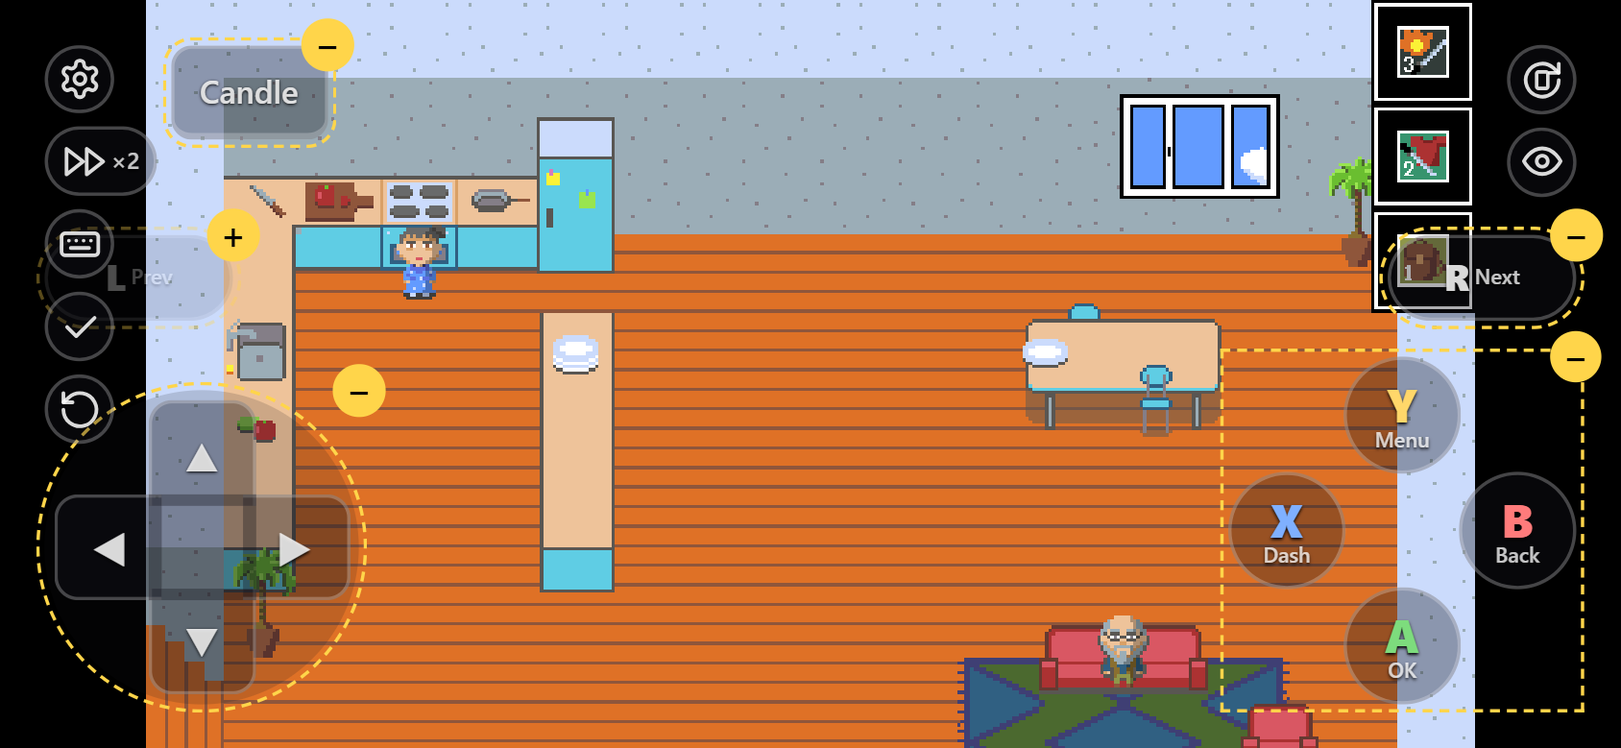
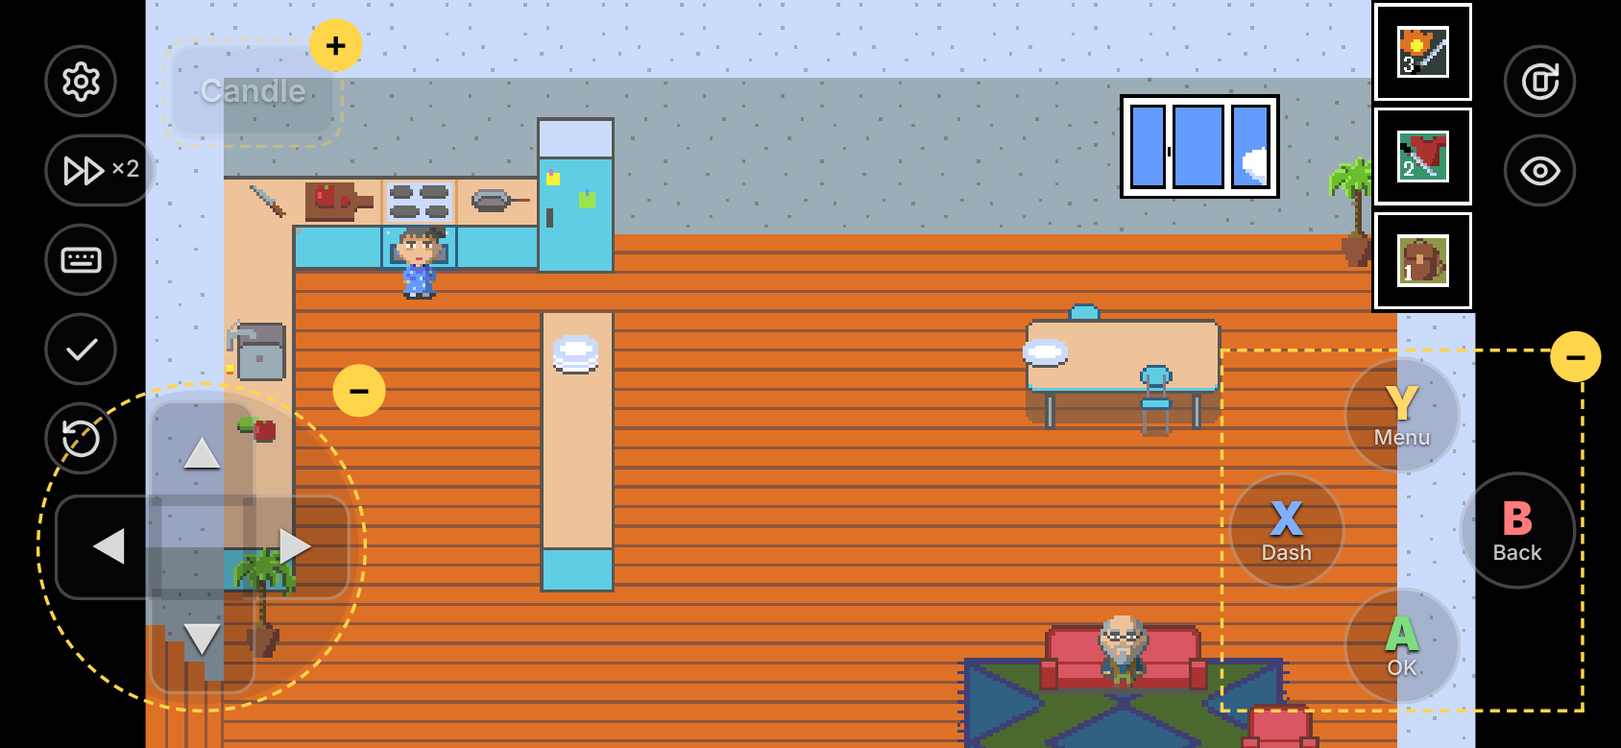
docs(site): organise the player guide like the in-game menu (#105)

diff --git a/site/reference/how-it-works.md b/site/reference/how-it-works.md
@@ -73,7 +73,7 @@ The game folder is never written to. Each run:
 1. Picks the files: the standard RPG Maker folders, plus `include`, minus `exclude`.
 2. **Hard-links** them into `<game drive>:\.rwk-build\` (no extra disk space; copies on another drive).
 3. Adds the plugins to the build's copy of `js/plugins.js` and marks `index.html` with `<meta name="generator" content="rpgmaker-web-toolkit">`. Unless a public site asked to be listed: a `noindex` meta tag, `X-Robots-Tag: noindex` and a `robots.txt`.
-   Also writes `rwk-sw.js`, a Service Worker that keeps the pictures, sounds, data and scripts (each under 25 MiB) in the browser's Cache Storage, so a phone does not download them at every launch. It never touches `/api/`. A new deploy lists each file's version (size and modified time); on the next launch after all tabs of the game close, the worker drops only the files that changed. Players see what it holds, and can empty it, in ⚙ → **Game files on this device**. Turn it off with [`cache`](/reference/config).
+   Also writes `rwk-sw.js`, a Service Worker that keeps the pictures, sounds, data and scripts (each under 25 MiB) in the browser's Cache Storage, so a phone does not download them at every launch. It never touches `/api/`. A new deploy lists each file's version (size and modified time); on the next launch after all tabs of the game close, the worker drops only the files that changed. Players see what it holds, and can empty it, in ⚙ → **Help** → **Game files on this device**. Turn it off with [`cache`](/reference/config).
 
    The worker also lists the files over 25 MiB (a second list, `LARGE`, from R2). It never stores those on its own: only ⚙ → [Play offline](/play/offline) does. `RWK_Offline` asks the worker for the list over a message channel, compares it with the keys in the cache, and downloads what is missing, three files at a time, with a request header that makes the worker leave them alone. It counts bytes through a `TransformStream`, so a big file moves the bar while it downloads, and stores each file only after a plain 200 from this site (never a login page Access redirected to). `index.html`, `js/plugins.js` and `rwk.webmanifest` are answered from the network first and the cache when there is none (or after 4 seconds), so an installed copy opens offline. A cached file answers a `Range` request with a 206 (movies, streamed audio). `rwk.webmanifest` carries the icon's real size, `scope` and `display: fullscreen`, which is what lets a browser offer to install the game.
 4. Uploads files over 25 MiB to R2, skipping unchanged ones by hash. The limits come from [`cli/limits.json`](/reference/limits#when-cloudflare-changes-them), downloaded from `main` on each run.
@@ -118,7 +118,7 @@ Saves are stored under a hash of the email, never the email itself.
 
 ## Save sync
 
-At boot, before the engine reads a save, the plugin keeps the newer of each local / cloud pair and asks when both changed. Each save uploads about a second later with `If-Match`, so it never silently overwrites another device. What players see: [Saves on several devices](/play/saves).
+At boot, before the engine reads a save, the plugin keeps the newer of each local / cloud pair and asks when both changed. Each save uploads about a second later with `If-Match`, so it never silently overwrites another device. What players see: [Cloud saves](/play/saves).
 
 Before the Worker overwrites or deletes a save, it copies the old one to `history/`: at most once per 15 minutes per save, unless another device or a delete replaces it. It then drops copies past `saveHistory` (`keep` per save, `days` old). Restoring copies one back over the save, after keeping the save it replaces.
 

diff --git a/site/play/index.md b/site/play/index.md
@@ -14,7 +14,7 @@ Someone sent you a link like `https://my-game.name.workers.dev`.
 No code? Your email is not on the list yet (or the code went to spam). Ask for it to be [added](/setup/access#invite-players).
 
 ::: tip Your email is your save
-Sign in with the same email everywhere to keep playing the same game. See [Saves on several devices](/play/saves).
+Sign in with the same email everywhere to keep playing the same game. See [Cloud saves](/play/saves).
 :::
 
 ## Play full screen on a phone
@@ -26,7 +26,7 @@ Sign in with the same email everywhere to keep playing the same game. See [Saves
 
 Or tap ⟳ in the game's toolbar (⚙ → **Full screen** on a PC). It also turns a landscape game sideways.
 
-## Controls and tools
+## Controls and the menu
 
 <div class="shots">
 
@@ -38,23 +38,16 @@ Or tap ⟳ in the game's toolbar (⚙ → **Full screen** on a PC). It also turn
 
 | On | Use |
 |---|---|
-| Phone or tablet | The on-screen gamepad: [Touch controls](/play/controls) |
+| Phone or tablet | The on-screen gamepad ([Touch controls](/play/controls)) and the [toolbar](/play/toolbar) |
 | PC | Keyboard or a controller, as in the desktop game |
-| ⏩ | [Fast forward](/play/speed) ×2 / ×3 / ×4 |
-| ⚙ Menu | Full screen (on a PC; a toolbar button on a phone), [quick save / load](/play/quick-save), [older saves](/play/saves#bring-back-an-older-save), [message modes](/play/messages) (Auto, Skip), [messages log](/play/messages#messages-log), [always dash](/play/dash), [keys and buttons](/play/keys), [move buttons](/play/controls#move-or-hide-buttons), [manage save files](/play/save-files), [use several items at once](/play/items) (also [in battle](/play/items#in-battle) and [as gifts](/play/items#gifts-and-other-events-that-ask-for-an-item)), [cheats](/play/cheats) when turned on, [play offline](/play/offline), [report a problem](#report-a-problem), [game files on this device](#game-files-on-this-device) |
+| ⚙ Settings | Every option of the toolkit, in groups: speed, messages, items, saves, controls, language, offline, help. Where each one lives: [Menu map](/play/menu) |
 
 The game pauses while the ⚙ menu is open, but the music keeps playing; ✕, Esc or a tap outside it resumes. On a PC, ⚙ is a faint button in the top-left corner, or press **F1**. Options the person who set up the game turned off are missing.
 
 ## Game files on this device
 
-The browser keeps the game's pictures, sounds and data, so the next launch does not download them again (useful over 4G). ⚙ → **Game files on this device** shows how many are kept, how much space they take and how much is left. **Clear** frees that space: the files download again as you play. Saves are not touched.
-
-To have **all** of them on the device, use ⚙ → [Play offline](/play/offline).
-
-A phone may also drop them on its own when it is short of space, or (iPhone) after some weeks without opening the game. Nothing is lost: they download again.
+Moved to [Help](/play/help#game-files-on-this-device).
 
 ## Report a problem
 
-⚙ → **Report a problem** (also on the game's error screen) shows the latest errors, the audio state and the sound files that failed to load. **Copy report** and send it to whoever set up the game, with what you were doing. It has no email or save data.
-
-Check first whether the problem also happens in the desktop version of the game: only then is it the game's own bug.
+Moved to [Help](/play/help#report-a-problem).

diff --git a/site/play/menu.md b/site/play/menu.md
@@ -1,0 +1,56 @@
+---
+description: "Map of the ⚙ settings menu in an RPG Maker web game: how to open it, what each group holds, how search and Back work, and the guide page for each setting."
+lang: en
+---
+
+# Menu map
+
+Every option of the toolkit is in the ⚙ **Settings** menu. Open it with ⚙ in the toolbar on a phone, with the faint ⚙ in the top-left corner on a PC, or with <kbd>F1</kbd>. The game pauses while it is open; the music keeps playing.
+
+<div class="shots">
+
+![The first screen: tiles, search and one row per group](/img/tools-menu.png){.shot .portrait}
+
+![A group's page: Saves, with the back arrow](/img/menu-page.png){.shot .portrait}
+
+</div>
+
+## The first screen
+
+At the top, **tiles** for what you use most: **Quick save**, **Quick load** and, on a PC, **Full screen** (a toolbar button on a phone). Below them, one row per group, with a line that says how it is set (for example *Fast forward ×2 · Always dash*). Tap a row to open its page. A group with a single setting shows that setting on the first screen instead.
+
+| Group | What is inside | Guide |
+|---|---|---|
+| **Speed and movement** | Fast forward, Fast-forward speed, Always dash | [Speed and movement](/play/speed) |
+| **Messages** | Messages (Normal / Auto / Skip), Auto speed, Messages log | [Messages](/play/messages) |
+| **Items** | Use several items at once, … in battle, Give several items at once | [Several items at once](/play/items) |
+| **Saves** | Cloud saves, Load autosave, Older saves, Saves (export, import, delete) | [Cloud saves](/play/saves), [Quick save and autosave](/play/quick-save), [Older saves](/play/older-saves), [Save files](/play/save-files) |
+| **Cheats** | Cheats, when turned on for you | [Cheats](/play/cheats) |
+| **Controls** | Edit button layout (phones), Keys and buttons | [Touch controls](/play/controls), [Keys and buttons](/play/keys) |
+| **Display** | Language, when the game has translations | [Language](/play/language) |
+| **Offline** | Play offline | [Play offline](/play/offline) |
+| **Help** | Report a problem, Game files on this device | [Help](/play/help) |
+
+A group appears only when it has something in it: options the person who set up the game, or the game's creator, turned off are missing, and so is a group left empty. Settings added by other plugins sit under **More**.
+
+## Kinds of rows
+
+| Row | Use |
+|---|---|
+| Switch | Tap to turn on or off. The menu stays open |
+| Choice (2 to 4 buttons side by side) | Tap one, or use <kbd>←</kbd> / <kbd>→</kbd> on a keyboard. The menu stays open |
+| Row with an arrow on the right | Opens a panel (Saves, Keys and buttons…) and closes the menu |
+
+## Search
+
+When the menu has more than 15 settings, a search box sits above the groups. Type a few words: a setting matches when its name, its description or its group's name has every word, whatever the case or accents ("auto" finds *Auto speed* and *Load autosave*). Results are listed under their group's name.
+
+## Go back and close
+
+| To | Do |
+|---|---|
+| Clear the search | <kbd>Esc</kbd> |
+| Go back to the first screen | The back arrow at the top, <kbd>Esc</kbd>, or the phone's Back button |
+| Close the menu | **✕**, a tap outside it, <kbd>Esc</kbd> or Back on the first screen, or <kbd>F1</kbd> |
+
+On a keyboard, <kbd>Tab</kbd> moves through the rows and <kbd>Enter</kbd> picks one.

diff --git a/site/reference/config.md b/site/reference/config.md
@@ -30,10 +30,10 @@ Every key of a game's settings, as [`config`](/setup/configuration) shows them. 
 | `messageMode` | `false` turns off the [message modes](/play/messages) (Auto, Skip); `{ "auto": true, "skip": false, "mode": "auto", "autoSpeed": "slow", "lock": true }` picks the modes offered, the mode and Auto speed to start in, and whether players may change them | Same |
 | `backlog` | `false` removes ⚙ → [Messages log](/play/messages#messages-log); a number (10–500, default 100) sets how many messages it keeps | Same |
 | `remap` | `false` removes ⚙ → [Keys and buttons](/play/keys); `{ "keyboard": true, "gamepad": false }` lets players remap only the keyboard (or only the gamepad) | Same |
-| `alwaysDash` | `false` removes ⚙ → [Always dash](/play/dash); `{ "on": true }` makes players who never chose run; `{ "on": true, "lock": true }` keeps it on (no switch) | Same |
+| `alwaysDash` | `false` removes ⚙ → [Always dash](/play/speed#always-dash); `{ "on": true }` makes players who never chose run; `{ "on": true, "lock": true }` keeps it on (no switch) | Same |
 | `quickSave` | `false` turns off [quick save / load](/play/quick-save); `{ "ignoreSaveLock": false }` keeps it off where the game disallows saving | Same |
 | `autoSave` | `false` turns off the [autosave](/play/quick-save#autosave); `{ "minutes": 10 }` changes how often (1–60, default 5) | Same |
-| `saveHistory` | `false` keeps no [older saves](/play/saves#bring-back-an-older-save); `{ "keep": 5, "days": 14 }` changes how many copies each save keeps (1–50, default 10) and for how long (1–365 days, default 30). Enforced by the Worker | Yes |
+| `saveHistory` | `false` keeps no [older saves](/play/older-saves); `{ "keep": 5, "days": 14 }` changes how many copies each save keeps (1–50, default 10) and for how long (1–365 days, default 30). Enforced by the Worker | Yes |
 | `cheats` | Off unless set. `true` turns on ⚙ → [Cheats](/play/cheats); `{ "party": true, "items": true, "battle": false }` keeps only some sections (party: heal, god mode, level; items: gold and items; battle: win now; switches: switches and variables; movement: walk through walls, teleport). Best given to [one player](/setup/configuration#settings-for-one-player) | Same |
 | `offline` | `false` removes ⚙ → [Play offline](/play/offline) (downloading the whole game to the device). Needs `cache`, so `cache: false` turns it off too | Same |
 | `cache` | `false` stops the browser keeping the game's pictures, sounds and data between launches (files over 25 MiB are kept only when a player downloads the game for [offline play](/play/offline)) | Yes |

diff --git a/site/play/messages.md b/site/play/messages.md
@@ -5,13 +5,15 @@ lang: en
 
 # Messages: tap to finish, Auto, Skip
 
+In the menu: ⚙ → **Messages** → **Messages** (the mode), **Auto speed**, **Messages log**.
+
 | Mode | What it does |
 |---|---|
 | **Normal** | A tap (or OK) shows the rest of the message at once, pauses in the text included. Another tap goes to the next one |
-| **Auto** | Each message turns by itself after a moment; longer messages stay longer. Pick **Slow**, **Normal** or **Fast** with ⚙ → **Auto speed** |
+| **Auto** | Each message turns by itself after a moment; longer messages stay longer. Pick **Slow**, **Normal** or **Fast** on the **Auto speed** row |
 | **Skip** | Goes through messages and scrolling text as fast as the game allows |
 
-Change the mode with ⚙ → **Messages** (each tap picks the next one). On a PC, hold <kbd>Ctrl</kbd> to skip only while held.
+Pick the mode on the **Messages** row (**Normal**, **Auto**, **Skip**). On a PC, hold <kbd>Ctrl</kbd> to skip only while held.
 
 Auto and Skip never answer for you: Skip stops by itself at a choice, a number to enter or an item to pick, and Auto waits there until you choose. Auto and the Auto speed are remembered in this browser; Skip starts off each time.
 
@@ -19,6 +21,6 @@ Ctrl does nothing when one of the game's plugins already uses it. Some sites hav
 
 ## Messages log
 
-Skipped something? ⚙ → **Messages log** (or <kbd>L</kbd> on a keyboard) lists the last 100 messages with the speaker's name, newest at the bottom. Scroll with a finger, the wheel or the arrow keys; <kbd>Esc</kbd>, <kbd>L</kbd> or **Close** goes back. The game is paused while the log is open, so Auto does not turn pages behind it.
+Skipped something? ⚙ → **Messages** → **Messages log** (or <kbd>L</kbd> on a keyboard) lists the last 100 messages with the speaker's name, newest at the bottom. Scroll with a finger, the wheel or the arrow keys; <kbd>Esc</kbd>, <kbd>L</kbd> or **Close** goes back. The game is paused while the log is open, so Auto does not turn pages behind it.
 
 Colors, icons and other codes in the text are removed. The log lives in the browser's memory only: it starts over on a new game, when you load a save and when the page reloads. Choices and scrolling text are not recorded. <kbd>L</kbd> does nothing when one of the game's plugins already uses it. Some sites have the log turned off by the person who set up the game or by the game's creator.

diff --git a/site/play/speed.md b/site/play/speed.md
@@ -1,9 +1,13 @@
 ---
-description: "Fast forward an RPG Maker web game at 2x, 3x or 4x speed: walking, battles, animations, text and cutscenes, while music keeps its normal speed."
+description: "Fast forward an RPG Maker web game at 2x, 3x or 4x speed, music at normal speed, and always dash to run everywhere without holding a button."
 lang: en
 ---
 
-# Fast forward
+# Speed and movement
+
+In the menu: ⚙ → **Speed and movement** → **Fast forward**, **Fast-forward speed**, **Always dash**. On a phone, ⏩ in the toolbar also turns fast forward on and off.
+
+## Fast forward
 
 Speeds up the whole game ×2, ×3 or ×4: walking, battles, animations, text and cutscenes. Music and sound keep their normal speed.
 
@@ -13,8 +17,16 @@ Speeds up the whole game ×2, ×3 or ×4: walking, battles, animations, text and
 |---|---|---|
 | Phone or tablet | Tap **⏩** in the toolbar (it lights up while on) | Hold **⏩** |
 | PC | <kbd>`</kbd> (the key left of 1) | Hold <kbd>Tab</kbd> |
-| Anywhere | ⚙ → **Fast forward** | |
+| Anywhere | The **Fast forward** switch in the menu | |
 
-Pick the speed with ⚙ → **Fast-forward speed**. It is remembered in this browser; fast forward itself starts off each time.
+Pick ×2, ×3 or ×4 on the **Fast-forward speed** row. It is remembered in this browser; fast forward itself starts off each time.
 
 The keys do nothing when one of the game's plugins already uses them. Fast forward stops while the ⚙ menu is open. The person who set up the game can turn it off, keep it out of battles, cap the speed or fix it (then there is no speed to pick), and the game's creator can turn it off.
+
+## Always dash
+
+Turn on ⚙ → **Speed and movement** → **Always dash** to run everywhere without holding a button. Hold **Dash** on the on-screen gamepad (**Shift** on a keyboard) to walk instead. Turn the switch off to stop.
+
+It is the game's own **Always Dash** setting, so it also shows in the game's Options menu (when the game has one) and it follows your saves to your other devices.
+
+Some maps do not allow running at all, as in the desktop game; the menu says so. Some sites have this switch turned off by the person who set up the game or by the game's creator, or keep running always on.

diff --git a/site/play/items.md b/site/play/items.md
@@ -5,6 +5,8 @@ lang: en
 
 # Use several items at once
 
+In the menu: ⚙ → **Items** → **Use several items at once**, **Use several items at once in battle**, **Give several items at once**. Each is a switch, remembered in this browser.
+
 Choose an item you hold several of, and the game asks **how many** to use (up to 99):
 
 ![Use how many? Red Berry × 10](/img/item-batch.png){.shot .landscape}
@@ -15,13 +17,13 @@ Choose an item you hold several of, and the game asks **how many** to use (up to
 | Runs a common event | The event runs 10 times; you see its message once |
 | Its event shows choices, moves you, starts a battle, opens a shop / menu / save screen, or ends the game | Not asked: used one at a time, so nothing breaks |
 
-Turn it off or on with ⚙ → **Use several items at once** (remembered in this browser). It works with item menus restyled by plugins.
+Turn it off or on with the **Use several items at once** switch. It works with item menus restyled by plugins.
 
 ## In battle
 
 The same works in battle: choose an item, pick **how many**, then its target. The actor's one action uses all of them: the target gets the effect that many times, the item's common event runs that many times, and that many items are used up. If another actor used some of the same item earlier in the turn, only what is left is used.
 
-This makes battles easier than the game intends. Turn it off or on with ⚙ → **Use several items at once in battle** (remembered in this browser).
+This makes battles easier than the game intends. Turn it off or on with the **Use several items at once in battle** switch.
 
 ## Gifts and other events that ask for an item
 
@@ -29,4 +31,4 @@ Some games ask you to pick an item in an event: a gift for a character, an offer
 
 It stops early, and keeps the rest, when the event did not take the item (the character refuses it, or only accepts one gift a day) or when none is left. It works when the event hands the item to a common event that shows no choices and does not move you; otherwise the item is given one at a time, as usual.
 
-Turn it off or on with ⚙ → **Give several items at once** (remembered in this browser).
+Turn it off or on with the **Give several items at once** switch.

diff --git a/site/play/saves.md b/site/play/saves.md
@@ -1,9 +1,11 @@
 ---
-description: "Cloud save sync for an RPG Maker web game: saves follow your email, so you can save on a phone and continue on a PC. "
+description: "Cloud save sync for an RPG Maker web game: saves follow your email, so you can save on a phone and continue on a PC."
 lang: en
 ---
 
-# Saves on several devices
+# Cloud saves
+
+In the menu: ⚙ → **Saves** → **Cloud saves**.
 
 With **cloud save sync** on, your saves follow your email. Save on your phone, continue on your PC. Nothing to do: save in the game as usual.
 
@@ -15,7 +17,7 @@ With **cloud save sync** on, your saves follow your email. Save on your phone, c
 
 ## The ☁ icon
 
-⚙ → **Cloud saves** shows where your saves are, with this icon and in words. Tap it to upload waiting saves.
+⚙ → **Saves** → **Cloud saves** shows where your saves are, with this icon and in words. Tap it to upload waiting saves.
 
 | Icon | Means |
 |---|---|
@@ -43,13 +45,7 @@ With **cloud save sync** on, your saves follow your email. Save on your phone, c
 
 ## Bring back an older save
 
-![⚙ → Older saves](/img/save-history.png){.shot .portrait}
-
-The cloud keeps older copies of your saves: one when a save is overwritten (at most every 15 minutes, or when another device saves over it) and one when it is deleted. By default up to 10 per save, for 30 days.
-
-Tap ⚙ → **Older saves**, pick a copy, then **Restore**. It replaces that save on every device, and the game restarts. The save it replaced is kept in the list, so you can change your mind.
-
-Use it when a save is broken, when you picked the wrong copy above, or when you saved over the wrong slot. It needs an internet connection.
+The cloud also keeps older copies of your saves: see [Older saves](/play/older-saves).
 
 ::: tip Good habits
 Play on one device at a time, use the same email everywhere, and keep a second slot before a boss.

diff --git a/site/play/controls.md b/site/play/controls.md
@@ -5,6 +5,8 @@ lang: en
 
 # Touch controls
 
+In the menu: ⚙ → **Controls** → **Edit button layout**, to move or hide the buttons. The on-screen gamepad shows on phones and tablets.
+
 <div class="shots">
 
 ![Portrait: the game above, the gamepad below](/img/controls-portrait.png){.shot .portrait}
@@ -27,23 +29,13 @@ The controls fade after a few seconds without a touch. Touch the screen and they
 
 ## The toolbar
 
-| Icon | Where | Does |
-|---|---|---|
-| ⚙ | Left | Opens the [settings menu](/play/#controls-and-tools): saves, button layout… The game pauses meanwhile; the music keeps playing |
-| ⏩ ×2 | Left | [Fast forward](/play/speed): tap to turn on or off, hold to speed up only while held |
-| ⌨ | Left | **Game keys**: the game's extra keys, with what each one does |
-| ⟳ | Right | Full screen. It also turns a landscape game sideways |
-| 👁 | Right | Hide / show all the controls. Hidden, only 👁 stays on screen |
-
-In landscape the game's extra keys sit on the left, and a group of toolbar buttons that would cover the game stands in a column instead of a row.
-
-![The ⌨ Game keys panel](/img/game-keys.png){.shot .portrait}
+The ⚙, ⏩, ⌨, ⟳ and 👁 buttons next to the gamepad: see [Toolbar](/play/toolbar).
 
 ## Move or hide buttons
 
-![Editing the layout: L is hidden (+ brings it back), ✓ saves](/img/edit-layout.png){.shot .landscape}
+![Editing the layout: the Candle key is hidden (+ brings it back), ✓ saves](/img/edit-layout.png){.shot .landscape}
 
-1. ⚙ → **Edit button layout**.
+1. ⚙ → **Controls** → **Edit button layout**.
 2. **Drag** a button to move it. **−** hides it, **+** brings it back.
 3. **✓** saves. **↺** resets the positions.
 

diff --git a/site/play/quick-save.md b/site/play/quick-save.md
@@ -5,20 +5,22 @@ lang: en
 
 # Quick save and autosave
 
+In the menu: the **Quick save** and **Quick load** tiles at the top of ⚙, and ⚙ → **Saves** → **Load autosave**.
+
 Two save slots of the toolkit's own, next to the game's: they never take a slot of the game's save screen, and with [cloud sync](/play/saves) they follow you to your other devices like the game's saves.
 
 ## Quick save
 
 | On | Quick save | Quick load |
 |---|---|---|
-| Anywhere | ⚙ → **Quick save** | ⚙ → **Quick load** |
+| Anywhere | ⚙ → the **Quick save** tile | ⚙ → the **Quick load** tile |
 | PC | <kbd>F6</kbd> | <kbd>F7</kbd> |
 
 Quick save works on the map, outside events and messages, and also where the game itself does not let you save (some sites turn that off). Each quick save replaces the previous one. Quick load asks first, since progress since the quick save is lost; it works from the title screen too, but not during a battle.
 
 ## Autosave
 
-Every 5 minutes of play on the map, and when you switch away from the browser (phones often close it in the background), the game is saved to the autosave slot. Nothing is saved while you are idle. Load it with ⚙ → **Load autosave**, which shows where and when it was made.
+Every 5 minutes of play on the map, and when you switch away from the browser (phones often close it in the background), the game is saved to the autosave slot. Nothing is saved while you are idle. Load it with ⚙ → **Saves** → **Load autosave**, which shows where and when it was made.
 
 The game's own autosave (MZ, slot *Autosave*) works as before.
 

diff --git a/site/play/help.md b/site/play/help.md
@@ -1,0 +1,22 @@
+---
+description: "Report a problem in an RPG Maker web game with a copyable report, and see or clear the game files the browser keeps on this device."
+lang: en
+---
+
+# Help
+
+In the menu: ⚙ → **Help** → **Report a problem**, **Game files on this device**.
+
+## Report a problem
+
+⚙ → **Help** → **Report a problem** (also on the game's error screen) shows the latest errors, the audio state and the sound files that failed to load. **Copy report** and send it to whoever set up the game, with what you were doing. It has no email or save data.
+
+Check first whether the problem also happens in the desktop version of the game: only then is it the game's own bug.
+
+## Game files on this device
+
+The browser keeps the game's pictures, sounds and data, so the next launch does not download them again (useful over 4G). ⚙ → **Help** → **Game files on this device** shows how many are kept, how much space they take and how much is left. **Clear** frees that space: the files download again as you play. Saves are not touched.
+
+To have **all** of them on the device, use ⚙ → [Play offline](/play/offline).
+
+A phone may also drop them on its own when it is short of space, or (iPhone) after some weeks without opening the game. Nothing is lost: they download again.

diff --git a/site/play/offline.md b/site/play/offline.md
@@ -5,6 +5,8 @@ lang: en
 
 # Play offline
 
+In the menu: ⚙ → **Play offline** (the **Offline** group, on the first screen).
+
 Download the game to your device once, and it opens and plays without a connection. Saves you make offline stay on the device and upload when you are back online.
 
 ## Download the game
@@ -37,10 +39,10 @@ An installed game keeps its downloaded files like the website does. Your saves a
 
 ## Free the space
 
-⚙ → **Game files on this device** shows what is kept and clears it. The game then downloads again as you play, or when you tap **Download**. Saves are not touched.
+⚙ → **Help** → [Game files on this device](/play/help#game-files-on-this-device) shows what is kept and clears it. The game then downloads again as you play, or when you tap **Download**. Saves are not touched.
 
 ## Limits
 
-- Over a connection that never reaches the server, the game opens but cloud saves wait until it does ([Saves on several devices](/play/saves)).
+- Over a connection that never reaches the server, the game opens but cloud saves wait until it does ([Cloud saves](/play/saves)).
 - **Sign in once while online** after the login expires, even on an installed copy.
 - Some sites have this turned off by the person who set up the game, or by the game's creator.
